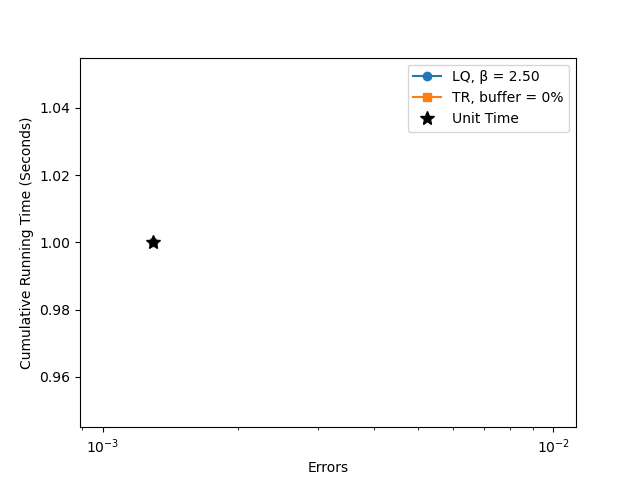
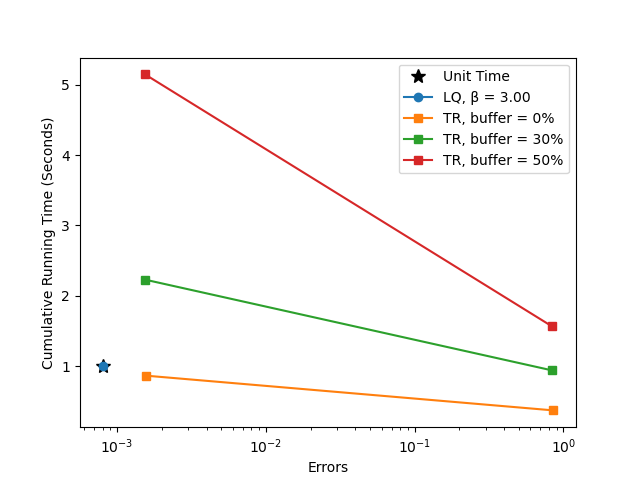
Changes for server run

diff --git a/2DTiming_TRvsLQ_Loop.py b/2DTiming_TRvsLQ_Loop.py
@@ -13,9 +13,9 @@ dimension = 2
 radius = 2
 h = 0.05
 betaVals = [3]
-bufferVals = [0, 0.3, 0.5]
-endTime = 25
-spacingLQVals = [0.38]
+bufferVals = [0, 0.5]
+endTime = 20
+spacingLQVals = [0.3]
 spacingTRVals = [0.25, 0.2]
 
 
@@ -175,6 +175,7 @@ for bufferVal in bufferVals:
 unitTime = np.asarray(betaDict_times[min(betaVals)])[0]
 unitError = np.asarray(betaDict_errors[min(betaVals)])[0]
 plt.figure()
+plt.plot(unitError, unitTime/unitTime, "*k", markersize = "10", label = "Unit Time")
 for betaVal in betaVals:
     if betaVal in betaDict_errors:
         Errors = betaDict_errors[betaVal]
@@ -190,7 +191,6 @@ for buff in bufferVals:
         labelString = 'TR, buffer = %d%%' %(buff*100)
         plt.semilogx(np.asarray(Errors), np.asarray(timing)/unitTime, "-s", label= labelString)
 
-plt.plot(unitError, unitTime/unitTime, "*k", markersize = "10", label = "Unit Time")
 
 plt.legend()
 plt.xlabel("Errors")
